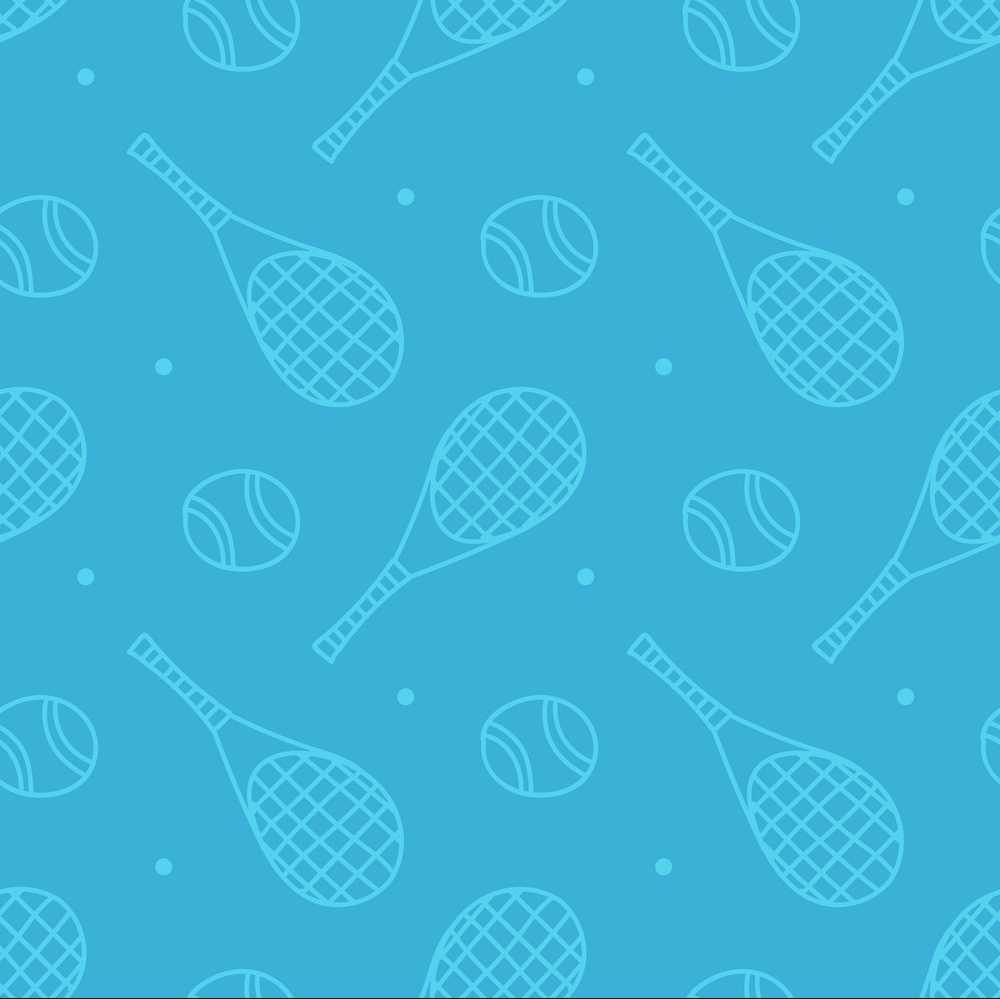
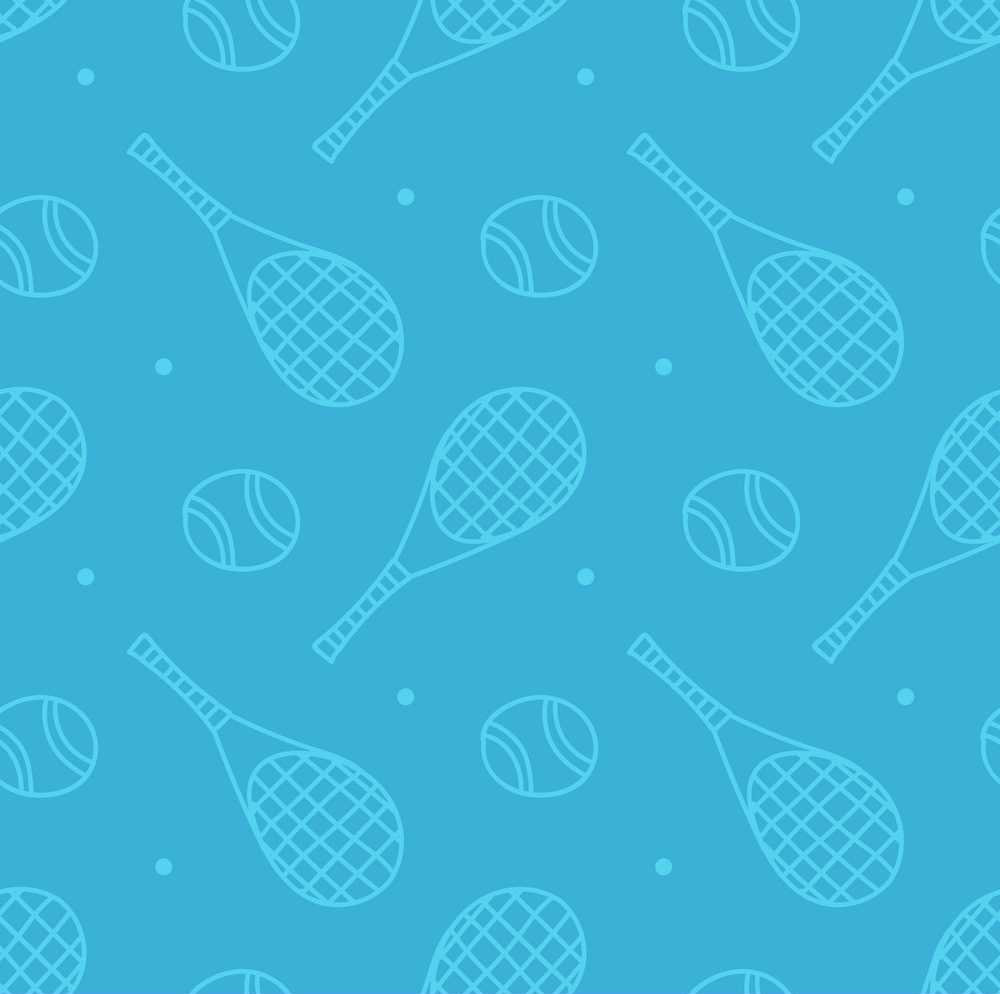
graphic fix

diff --git a/src/app/pages/tournament/tournament.component.html b/src/app/pages/tournament/tournament.component.html
@@ -1,73 +1,102 @@
-<div class="pageTitle">
-    Torneo 0 del gruppo P.P.Padel
-</div>
-
-<div class="teamSection" *ngIf="winningTeams?.length">
-    <div class="title">
-        Vincitori
-    </div>
-    <div class="teamList">
-        <div class="team" *ngFor="let team of winningTeams">
-            <div class="teamName">
-                {{team.position}} {{team.players[0]}} {{team.players[1]}}
-            </div>
-        </div>
-    </div>
-</div>
-
-<div class="resultSection">
-    <div class="title">
-        Partite
-    </div>
-    <div class="resultList">
-
-        <div *ngFor="let result of results ">
-            <div class="resultTitle" *ngIf="getMatchName(result.code)">
-                {{getMatchName(result.code)}}
-            </div>
-            <div class="result">
-                <div class="resultTeam" *ngFor="let team of result.teams">
-                    {{team.players[0] || '?'}} {{team.players[1] || '?'}}
-                </div>
-                <div class="resultScore">
-                    <div *ngIf="result.score[0] || result.score[1]">
-                        {{result.score[0]}} - {{result.score[1]}}
-                    </div>
-                    <div *ngIf="!result.score[0] && !result.score[1]">
-                        &nbsp; - &nbsp;
-                    </div>
+<div class="tournament-page">
+    <div class="title-container">
+        <div class="pageTitle">P.P.Padel</div>
+        <div class="table center">
+            <div class="monitor-wrapper center">
+                <div class="monitor center">
+                    <p>Il torneo numero 0 del nostro gruppo. Torneo goliardico senza grosse pretese di competitività In
+                        bocca al lupo a tutti e che vinca il più allegro</p>
                 </div>
             </div>
         </div>
     </div>
-</div>
 
-<div class="teamSection">
-    <div class="title">
-        Classifica Girone
-    </div>
-    <div class="teamList">
-        <div class="team" *ngFor="let team of teams">
-            <div class="teamName">
-                {{team.players[0]}} {{team.players[1]}}
-            </div>
-            <div class="teamScore">
-                {{team.totalPoints}}
+
+    <p-panel class="section" header="Vincitori" *ngIf="winningTeams?.length" [toggleable]="true">
+
+        <div class="teamList">
+            <div class="team" *ngFor="let team of winningTeams">
+                <div class="teamName">
+                    {{team.position}} {{team.players[0]}} {{team.players[1]}}
+                </div>
             </div>
         </div>
-    </div>
-</div>
+    </p-panel>
 
 
-<div class="infoSection">
-    <div class="title">
-        Informazioni
-    </div>
-    <div class="info">
-        Durante la fase del girone il punteggio è calcolato con il seguente metodo:
-        <ul>
-            <li>Per ogni partita vinta si ottengono 15 punti meno il numero di game persi</li>
-            <li>Per ogni partita persa si ottengono un numero di punti pari ai game vinti</li>
-        </ul>
-    </div>
+
+    <p-panel header="Partite" class="section resultSection" [toggleable]="true">
+
+        <p-table [value]="results" class="resultList">
+            <ng-template pTemplate="header">
+                <tr>
+                    <th class="resultHeader">Squadra 1</th>
+                    <th class="resultHeader">Squadra 2</th>
+                    <th class="resultHeader">Risultato</th>
+                </tr>
+            </ng-template>
+            <ng-template pTemplate="body" let-result>
+                <tr class="resultTitle" *ngIf="getMatchName(result.code)">
+                    <td colspan="3">{{getMatchName(result.code)}}</td>
+                </tr>
+                <tr>
+                    <td class="resultValue">{{result.teams[0].players[0] || '?'}} {{result.teams[0].players[1] || '?'}}
+                    </td>
+                    <td class="resultValue">{{result.teams[1].players[0] || '?'}} {{result.teams[1].players[1] || '?'}}
+                    </td>
+                    <td class="resultValue">
+                        <div *ngIf="result.score[0] || result.score[1]">
+                            {{result.score[0]}} - {{result.score[1]}}
+                        </div>
+                        <div *ngIf="!result.score[0] && !result.score[1]">
+                            &nbsp; - &nbsp;
+                        </div>
+                    </td>
+                </tr>
+            </ng-template>
+        </p-table>
+
+
+    </p-panel>
+
+    <p-panel header="Classifica Girone" class="section sectionteamSection" [toggleable]="true">
+
+        <p-table [value]="teams" class="teamList">
+            <ng-template pTemplate="header">
+                <tr>
+                    <th class="resultHeader">Squadra</th>
+                    <th class="resultHeader">Punti</th>
+                    <th class="resultHeader">Giocate</th>
+                    <th class="resultHeader">Vinte</th>
+                    <th class="resultHeader">Game Giocati</th>
+                    <th class="resultHeader">Game Vinti</th>
+                </tr>
+            </ng-template>
+            <ng-template pTemplate="body" let-team>
+
+                <tr>
+                    <td class="teamName"> {{team.players[0]}} {{team.players[1]}}</td>
+                    <th class="teamPoints">{{team.totalPoints || '-'}}</th>
+                    <th class="resultHeader">{{team.totalSetPlayed || '-'}}</th>
+                    <th class="teamInfo">{{team.totalSetWon || '-'}}</th>
+                    <th class="teamInfo">{{team.totalGamesPlayed || '-'}}</th>
+                    <th class="teamInfo">{{team.totalGamesWon || '-'}}</th>
+                </tr>
+            </ng-template>
+        </p-table>
+
+
+
+    </p-panel>
+
+    <p-card class="section">
+        <div class="info">
+            Durante la fase del girone il punteggio è calcolato con il seguente metodo:
+            <ul>
+                <li>Per ogni partita vinta si ottengono 15 punti meno il numero di game persi</li>
+                <li>Per ogni partita persa si ottengono un numero di punti pari ai game vinti</li>
+            </ul>
+        </div>
+    </p-card>
+
 </div>

diff --git a/src/app/pages/tournament/tournament.component.scss b/src/app/pages/tournament/tournament.component.scss
@@ -1,5 +1,11 @@
-.pageTitle {
-    text-align: center;
+.tournament-page {
+    background-image: url("../../../assets/images/pattern.jpg");
+    background-repeat: repeat;
+    background-size: 40%;
+
+    display: block;
+    padding: 0;
+    margin: -10px;
 }
 
 .resultSection {
@@ -18,4 +24,69 @@
 .team {
     display: flex;
     justify-content: space-evenly;
+}
+
+.section {
+    margin: 15px 10%;
+    display: block;
+    @media screen and (max-width: 768px) {
+        margin: 15px 5px;
+    }
+}
+
+.resultHeader {
+    text-align: center;
+}
+.resultValue {
+    text-align: center;
+}
+
+/////  TITLe  /////
+
+.pageTitle {
+    font-family: "Calligraffitti", cursive;
+    font-weight: 700;
+    font-size: 4rem;
+    text-shadow: -15px 5px 20px #ced0d3;
+    letter-spacing: 0.02em;
+    text-align: center;
+    color: #f9f1cc;
+    text-shadow: 2px 2px 0px #ffb650, 4px 4px 0px #ffd662, 6px 6px 0px #ff80bf, 8px 8px 0px #ef5097,
+        10px 10px 0px #6868ac, 12px 12px 0px #90b1e0;
+}
+
+/////  rolling writing  /////
+.center {
+    margin: 0 auto;
+}
+
+.table {
+    width: 100%;
+    margin-bottom: -30px;
+    margin-top: -30px;
+}
+.table .monitor-wrapper {
+    width: 97%;
+}
+.table .monitor-wrapper .monitor {
+    width: 92%;
+    overflow: hidden;
+    white-space: nowrap;
+}
+.table .monitor-wrapper .monitor p {
+    font-family: "VT323", monospace;
+    font-size: 30px;
+    position: relative;
+    display: inline-block;
+    animation: move 30s infinite linear;
+    color: #ebb55f;
+}
+
+@keyframes move {
+    from {
+        left: 800px;
+    }
+    to {
+        left: -4800px;
+    }
 }

diff --git a/src/app/services/tournament.service.ts b/src/app/services/tournament.service.ts
@@ -1,6 +1,5 @@
 import { EventEmitter, Injectable } from '@angular/core';
 import { gdocResult } from '../models/gdocs';
-import { Player, Result } from '../models/result';
 import { TournamentResult, TournamentTeam, TournamentWinningTeam } from '../models/tournament';
 
 @Injectable({
@@ -75,9 +74,11 @@ export class TournamentService {
 
     } else {
       // Update teams
-      this.updateTeam(teamA, score);
-      this.updateTeam(teamB, [...score].reverse());
+      if (teamA.players[0] && teamA.players[1] && teamB.players[0] && teamB.players[1]) {
+        this.updateTeam(teamA, score);
+        this.updateTeam(teamB, [...score].reverse());
 
+      }
     }
 
 
@@ -118,14 +119,16 @@ export class TournamentService {
 
 
   private updateTeam(team: TournamentTeam, score: number[]) {
-    team.totalGamesPlayed += score[0] + score[1];
-    team.totalGamesWon += score[0];
-    team.totalSetPlayed += 1;
-    if (score[0] > score[1]) {
-      team.totalSetWon += 1;
-    }
+    if (score[0] || score[1]) {
+      team.totalGamesPlayed += score[0] + score[1];
+      team.totalGamesWon += score[0];
+      team.totalSetPlayed += 1;
+      if (score[0] > score[1]) {
+        team.totalSetWon += 1;
+      }
 
-    team.totalPoints += this.getPoints(score[0], score[1]);
+      team.totalPoints += this.getPoints(score[0], score[1]);
+    }
 
     this.saveTeam(team);
   }

diff --git a/src/app/app.module.ts b/src/app/app.module.ts
@@ -9,6 +9,12 @@ import { ActivityRepeatBtnComponent } from './components/activities/activity-rep
 import { HomeComponent } from './pages/home/home.component';
 import { TournamentComponent } from './pages/tournament/tournament.component';
 
+import { CardModule } from 'primeng/card';
+import { PanelModule } from 'primeng/panel';
+import { BrowserAnimationsModule } from '@angular/platform-browser/animations';
+import { TableModule } from 'primeng/table';
+
+
 @NgModule({
   declarations: [
     AppComponent,
@@ -19,7 +25,11 @@ import { TournamentComponent } from './pages/tournament/tournament.component';
   imports: [
     BrowserModule,
     AppRoutingModule,
-    HttpClientModule
+    HttpClientModule,
+    CardModule,
+    PanelModule,
+    TableModule,
+    BrowserAnimationsModule
   ],
   providers: [],
   bootstrap: [AppComponent]

diff --git a/src/app/pages/tournament/tournament.component.ts b/src/app/pages/tournament/tournament.component.ts
@@ -14,6 +14,8 @@ export class TournamentComponent {
   public teams: TournamentTeam[] = [];
   public winningTeams: TournamentWinningTeam[] = [];
 
+  // public titleColors = ['#7c4dff', '#0091ea', '#ff9100', '#ff1744']
+
   constructor(
     private tournamentService: TournamentService,
     private gdocService: GdocService
